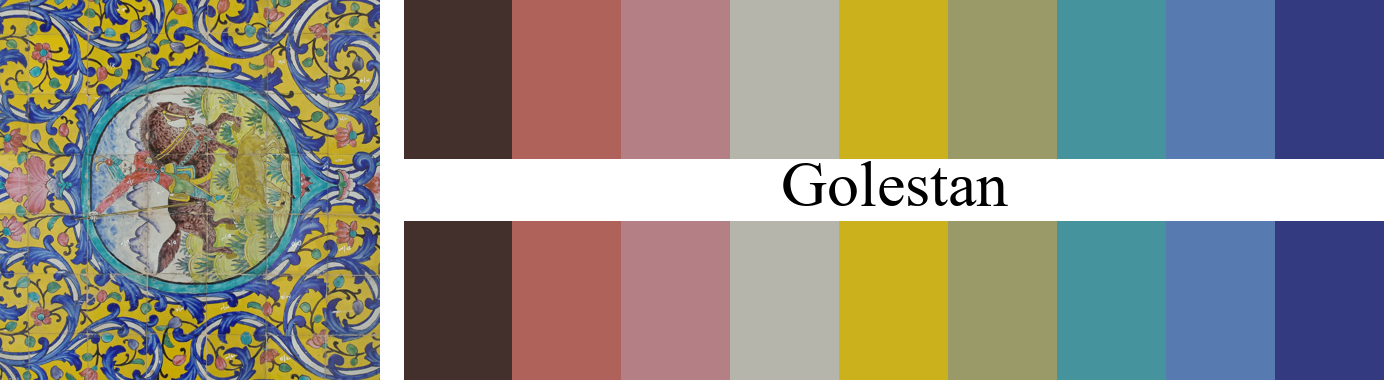
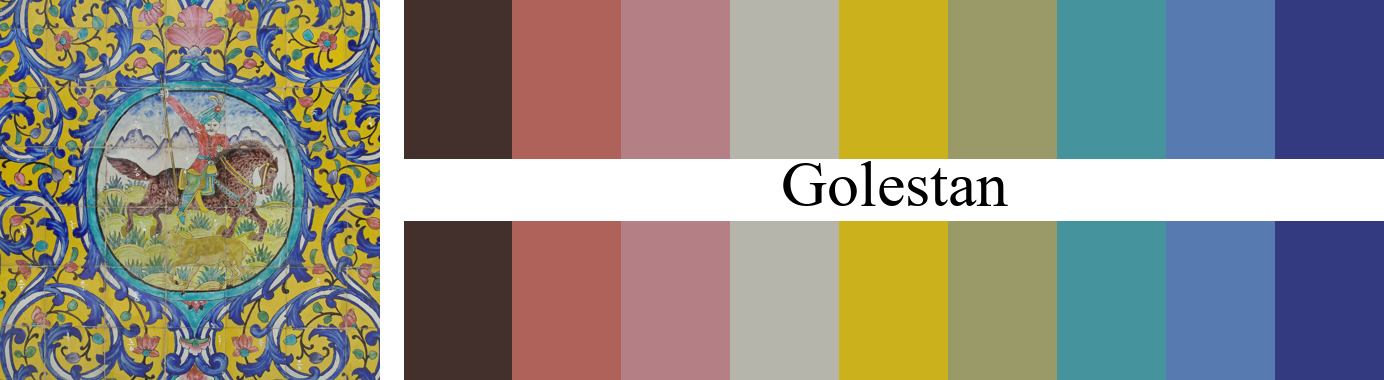
Correct photo orientation and gallery layout

Changed region(s): [[0.0, 0.0, 0.2796, 1.0]]

diff --git a/python/rang/_palettes.py b/python/rang/_palettes.py
@@ -1,6 +1,6 @@
 """Palette data. Built with tools/build.py, edit palettes/*.json instead."""
 
 PALETTES = {
-    "Golestan": {'colors': ('#432f2c', '#ae6259', '#b57f86', '#b5b5ac', '#cbb11c', '#9a9a68', '#45939c', '#577ab1', '#333a80'), 'order': (4, 5, 8, 6, 1, 7, 3, 9, 2), 'colorblind': True, 'pronunciation': 'goh-leh-STAHN, Persian for rose garden', 'source': {'title': 'Tile panel with a hunting scene, Golestan Palace', 'artist': '', 'date': 'Qajar period', 'geography': 'Tehran, Iran', 'medium': 'Glazed polychrome tilework', 'site': 'Golestan Palace, UNESCO World Heritage Site', 'url': 'https://whc.unesco.org/en/list/1422/', 'image': 'sources/golestan/tilework.jpg', 'context_image': 'sources/golestan/palace.jpg', 'context_caption': 'The panel in place at the palace, with a resident cat', 'credit': 'Photo by Mohsen Tahmasebi Nasab, 2018', 'public_domain': False, 'rights': "photographer's own work, contributed to the project"}},
-    "Kashan": {'colors': ('#7f3020', '#ab4a47', '#c07049', '#c59b46', '#ccac7e', '#e2cfb1', '#8a9463', '#345f72', '#1a3b45'), 'order': (3, 6, 4, 8, 7, 1, 9, 5, 2), 'colorblind': False, 'pronunciation': 'kah-SHAHN', 'source': {'title': 'Silk Kashan Carpet', 'artist': '', 'date': '16th century', 'geography': 'Iran, probably Kashan', 'medium': 'Silk (warp, weft and pile), asymmetrically knotted pile', 'museum': 'The Metropolitan Museum of Art, New York', 'department': 'Islamic Art', 'accession': '58.46', 'credit': 'Gift of Mrs. Douglas M. Moffat, 1958', 'url': 'https://www.metmuseum.org/art/collection/search/451470', 'image': 'https://images.metmuseum.org/CRDImages/is/original/DT5450.jpg', 'public_domain': True}},
+    "Golestan": {'colors': ('#432f2c', '#ae6259', '#b57f86', '#b5b5ac', '#cbb11c', '#9a9a68', '#45939c', '#577ab1', '#333a80'), 'order': (4, 5, 8, 6, 1, 7, 3, 9, 2), 'colorblind': True, 'pronunciation': 'goh-leh-STAHN, Persian for rose garden', 'source': {'title': 'Tile panel with a hunting scene', 'artist': '', 'date': 'Qajar period', 'geography': 'Tehran, Iran', 'medium': 'Glazed polychrome tilework', 'site': 'Golestan Palace, UNESCO World Heritage Site', 'url': 'https://whc.unesco.org/en/list/1422/', 'image': 'sources/golestan/tilework.jpg', 'context_image': 'sources/golestan/palace.jpg', 'context_caption': 'The panel in place at the palace, with a resident cat', 'credit': 'Photo by Mohsen Tahmasebi Nasab, 2018', 'public_domain': False, 'rights': "photographer's own work, contributed to the project"}},
+    "Kashan": {'colors': ('#7f3020', '#ab4a47', '#c07049', '#c59b46', '#ccac7e', '#e2cfb1', '#8a9463', '#345f72', '#1a3b45'), 'order': (3, 6, 4, 8, 7, 1, 9, 5, 2), 'colorblind': False, 'pronunciation': 'kah-SHAHN', 'source': {'title': 'Silk Kashan Carpet', 'artist': '', 'date': '16th century', 'geography': 'Iran, probably Kashan', 'medium': 'Silk (warp, weft and pile), asymmetrically knotted pile', 'museum': 'The Metropolitan Museum of Art, New York', 'department': 'Islamic Art', 'accession': '58.46', 'credit': 'Gift of Mrs. Douglas M. Moffat, 1958', 'url': 'https://www.metmuseum.org/art/collection/search/451470', 'image': 'https://images.metmuseum.org/CRDImages/is/original/DT5450.jpg', 'card_image': 'sources/kashan/card.jpg', 'public_domain': True}},
 }

diff --git a/tools/make_preview.py b/tools/make_preview.py
@@ -49,7 +49,23 @@ def name_band(img, name, font_size):
            fill="black", font=font)
 
 
-def caption_lines(pal):
+def wrap_line(text, font, max_w):
+    """Split an overlong caption line at commas so it fits the column."""
+    parts = [p.strip() for p in text.split(",")]
+    lines, current = [], ""
+    for part in parts:
+        candidate = f"{current}, {part}" if current else part
+        if current and font.getlength(candidate) > max_w:
+            lines.append(current)
+            current = part
+        else:
+            current = candidate
+    if current:
+        lines.append(current)
+    return lines
+
+
+def caption_lines(pal, font=None, max_w=580):
     src = pal["source"]
     line2 = src.get("geography", "")
     if src.get("accession"):
@@ -58,7 +74,10 @@ def caption_lines(pal):
     lines = [f'{pal["name"]}, {src["title"]}, {src["date"]}', line2, line3]
     if src.get("credit") and not src.get("museum"):
         lines.append(src["credit"])
-    return [ln for ln in lines if ln]
+    lines = [ln for ln in lines if ln]
+    if font is not None:
+        lines = [w for ln in lines for w in wrap_line(ln, font, max_w)]
+    return lines
 
 
 def make_swatch(pal, out):
@@ -69,7 +88,9 @@ def make_swatch(pal, out):
 
 def make_card(pal, out):
     H = 380
-    art = Image.open(fetch_image(pal["source"]["image"])).convert("RGB")
+    src = pal["source"]
+    art_path = fetch_image(src.get("card_image") or src["image"])
+    art = Image.open(art_path).convert("RGB")
     art.thumbnail((520, H))
     gap = 24
     W = art.width + gap + 1500 - 520
@@ -93,7 +114,7 @@ def make_preview(pal, out):
         d.text((x0, y), VISION_LABELS[kind], fill=(60, 60, 60), font=label_font)
         canvas.paste(strip(pal["colors"], 560, 70, kind), (x0, y + 30))
         y += 130
-    for i, line in enumerate(caption_lines(pal)):
+    for i, line in enumerate(caption_lines(pal, label_font, 1180 - x0 - 20)):
         d.text((x0, y + 10 + 30 * i), line, fill=(60, 60, 60), font=label_font)
     canvas.save(out)
 

diff --git a/docs/golestan/README.md b/docs/golestan/README.md
@@ -4,7 +4,7 @@
 
 ## Source
 
-Tile panel with a hunting scene, Golestan Palace, Qajar period. Tehran, Iran.
+Tile panel with a hunting scene, Qajar period. Tehran, Iran.
 Glazed polychrome tilework.
 Golestan Palace, UNESCO World Heritage Site.
 Photo by Mohsen Tahmasebi Nasab, 2018.
@@ -21,14 +21,14 @@ The panel in place at the palace, with a resident cat.
 
 | position | hex | drawn from | nearest pixel |
 |---|---|---|---|
-| 1 | `#432f2c` | dark umber, outlines and the hunter's horse | 0.3 |
-| 2 | `#ae6259` | coral red, blossoms and the rider's coat | 0.7 |
+| 1 | `#432f2c` | dark umber, outlines and the hunter's horse | 1.2 |
+| 2 | `#ae6259` | coral red, blossoms and the rider's coat | 0.3 |
 | 3 | `#b57f86` | rose pink, flowers among the scrollwork | 0.4 |
-| 4 | `#b5b5ac` | ivory, tile ground of the medallion | 0.5 |
-| 5 | `#cbb11c` | golden yellow, the field | 0.0 |
-| 6 | `#9a9a68` | pale olive, the hunting ground | 0.7 |
-| 7 | `#45939c` | turquoise, the medallion ring | 0.0 |
-| 8 | `#577ab1` | azure, lit edges of the scrollwork | 0.3 |
+| 4 | `#b5b5ac` | ivory, tile ground of the medallion | 0.0 |
+| 5 | `#cbb11c` | golden yellow, the field | 0.1 |
+| 6 | `#9a9a68` | pale olive, the hunting ground | 0.9 |
+| 7 | `#45939c` | turquoise, the medallion ring | 0.3 |
+| 8 | `#577ab1` | azure, lit edges of the scrollwork | 0.4 |
 | 9 | `#333a80` | cobalt, the arabesque scrolls | 0.3 |
 
 The nearest pixel column is the CIEDE2000 distance from each palette color to

diff --git a/README.md b/README.md
@@ -42,7 +42,7 @@ sample plots, per color provenance and color vision numbers.
 
 ![Golestan, the artwork and its palette](docs/golestan/card.png)
 
-Tile panel with a hunting scene, Golestan Palace, Qajar period. Golestan Palace, UNESCO World Heritage Site. Photo by Mohsen Tahmasebi Nasab, 2018. [Reference](https://whc.unesco.org/en/list/1422/) Colorblind friendly. Say it goh-leh-STAHN, Persian for rose garden.
+Tile panel with a hunting scene, Qajar period. Golestan Palace, UNESCO World Heritage Site. Photo by Mohsen Tahmasebi Nasab, 2018. [Reference](https://whc.unesco.org/en/list/1422/) Colorblind friendly. Say it goh-leh-STAHN, Persian for rose garden.
 
 `#432f2c #ae6259 #b57f86 #b5b5ac #cbb11c #9a9a68 #45939c #577ab1 #333a80`
 
